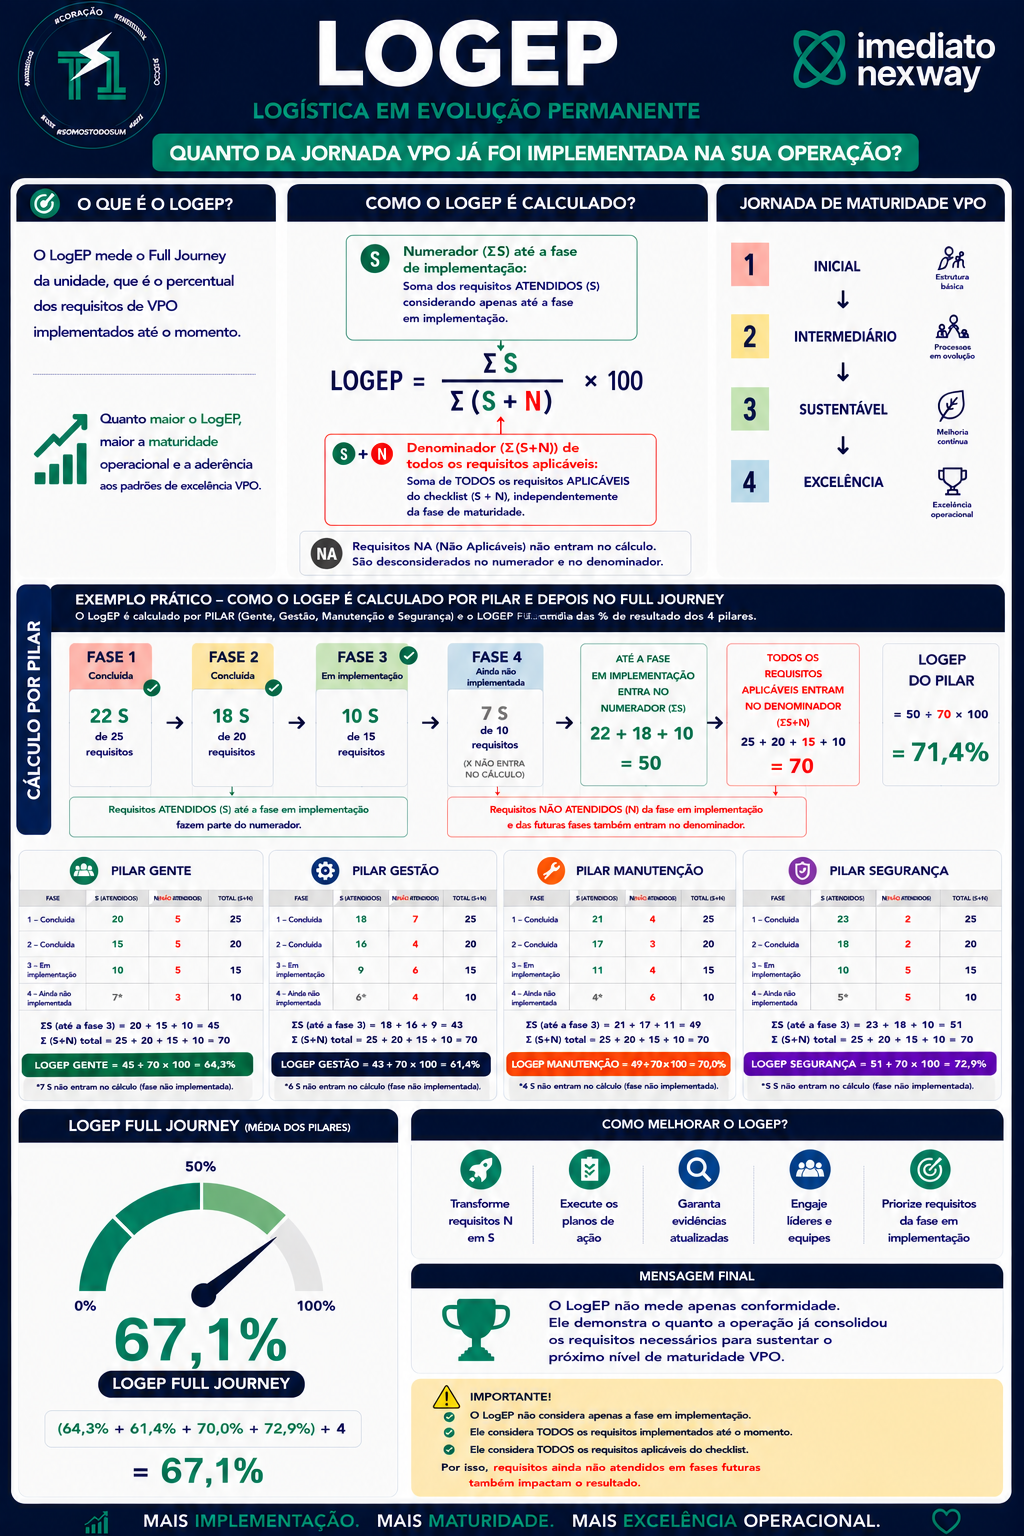
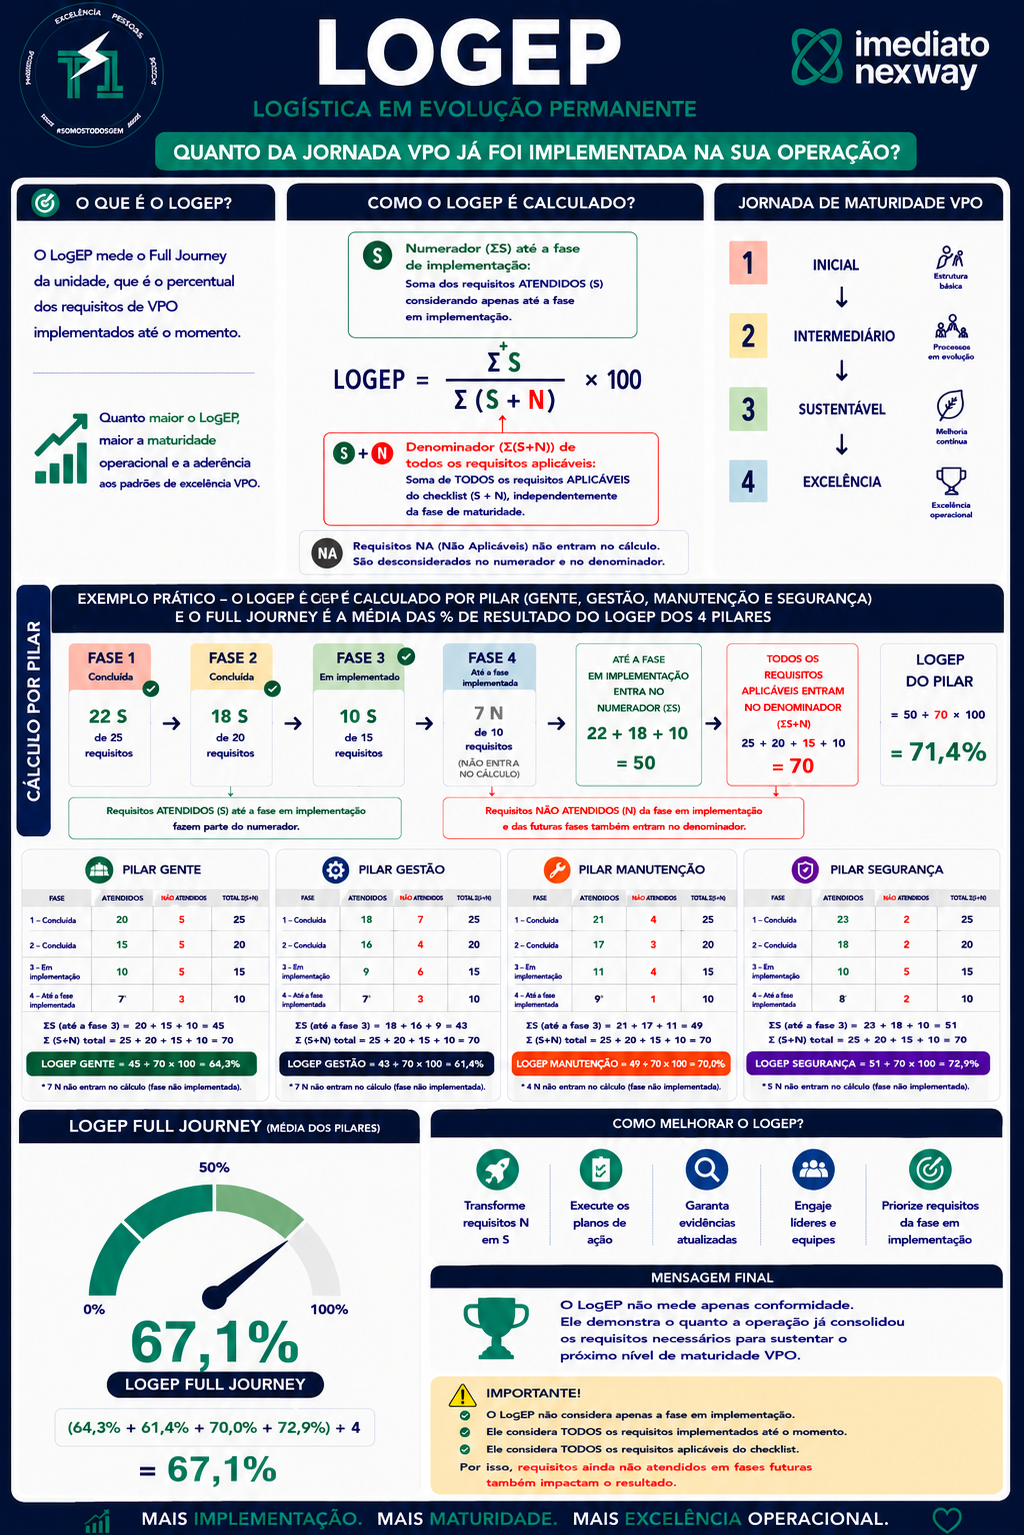
chore: atualiza imagem do scorecard e data de atualizacao

diff --git a/index.html b/index.html
@@ -46,7 +46,7 @@
                 <p class="empty" id="emptyState" hidden>Nada encontrado.</p>
 
                 <footer class="tree-foot">
-                    <span>Última atualização 23/06/2026</span>
+                    <span>Última atualização 24/06/2026</span>
                 </footer>
             </div>
         </aside>